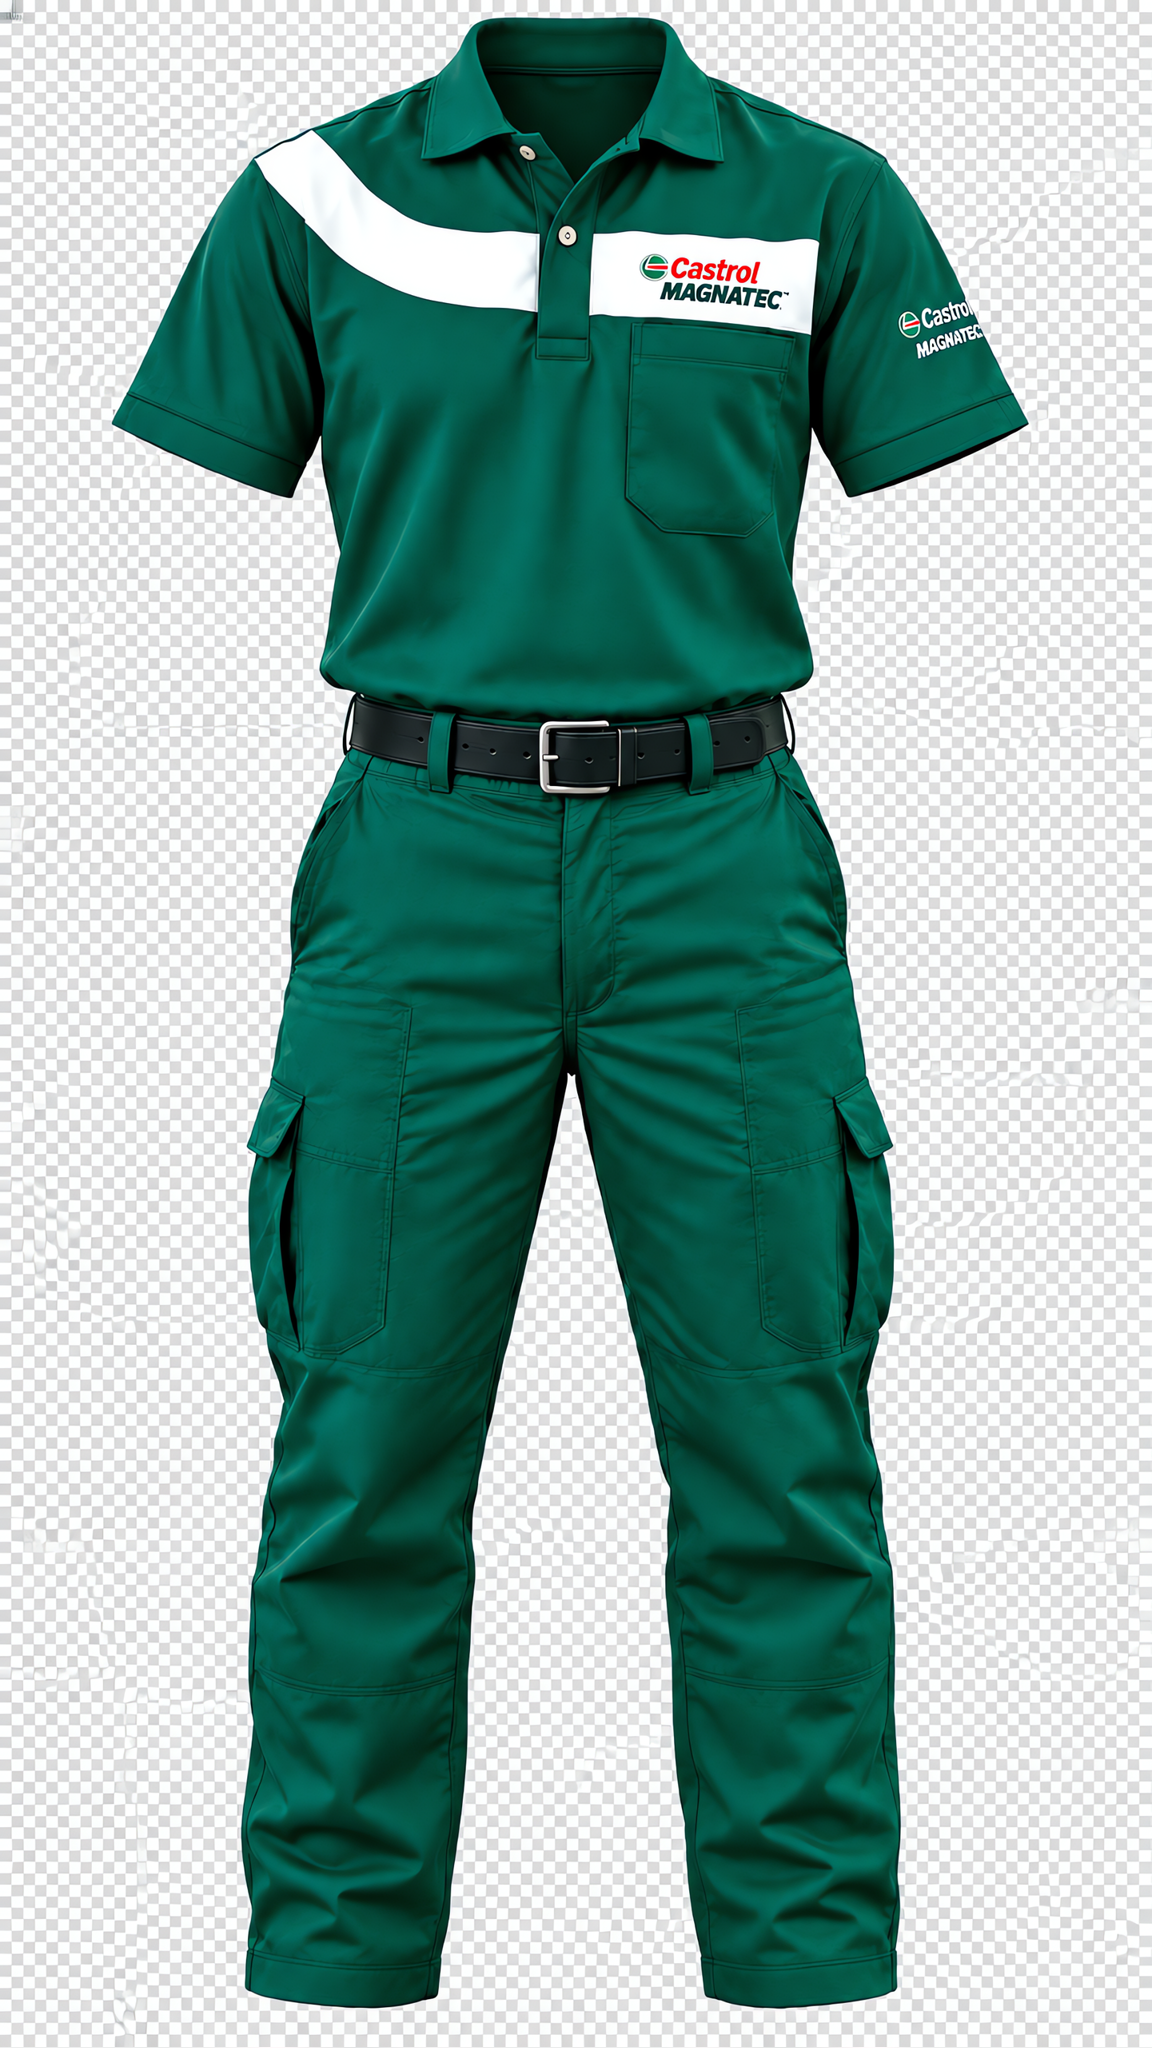
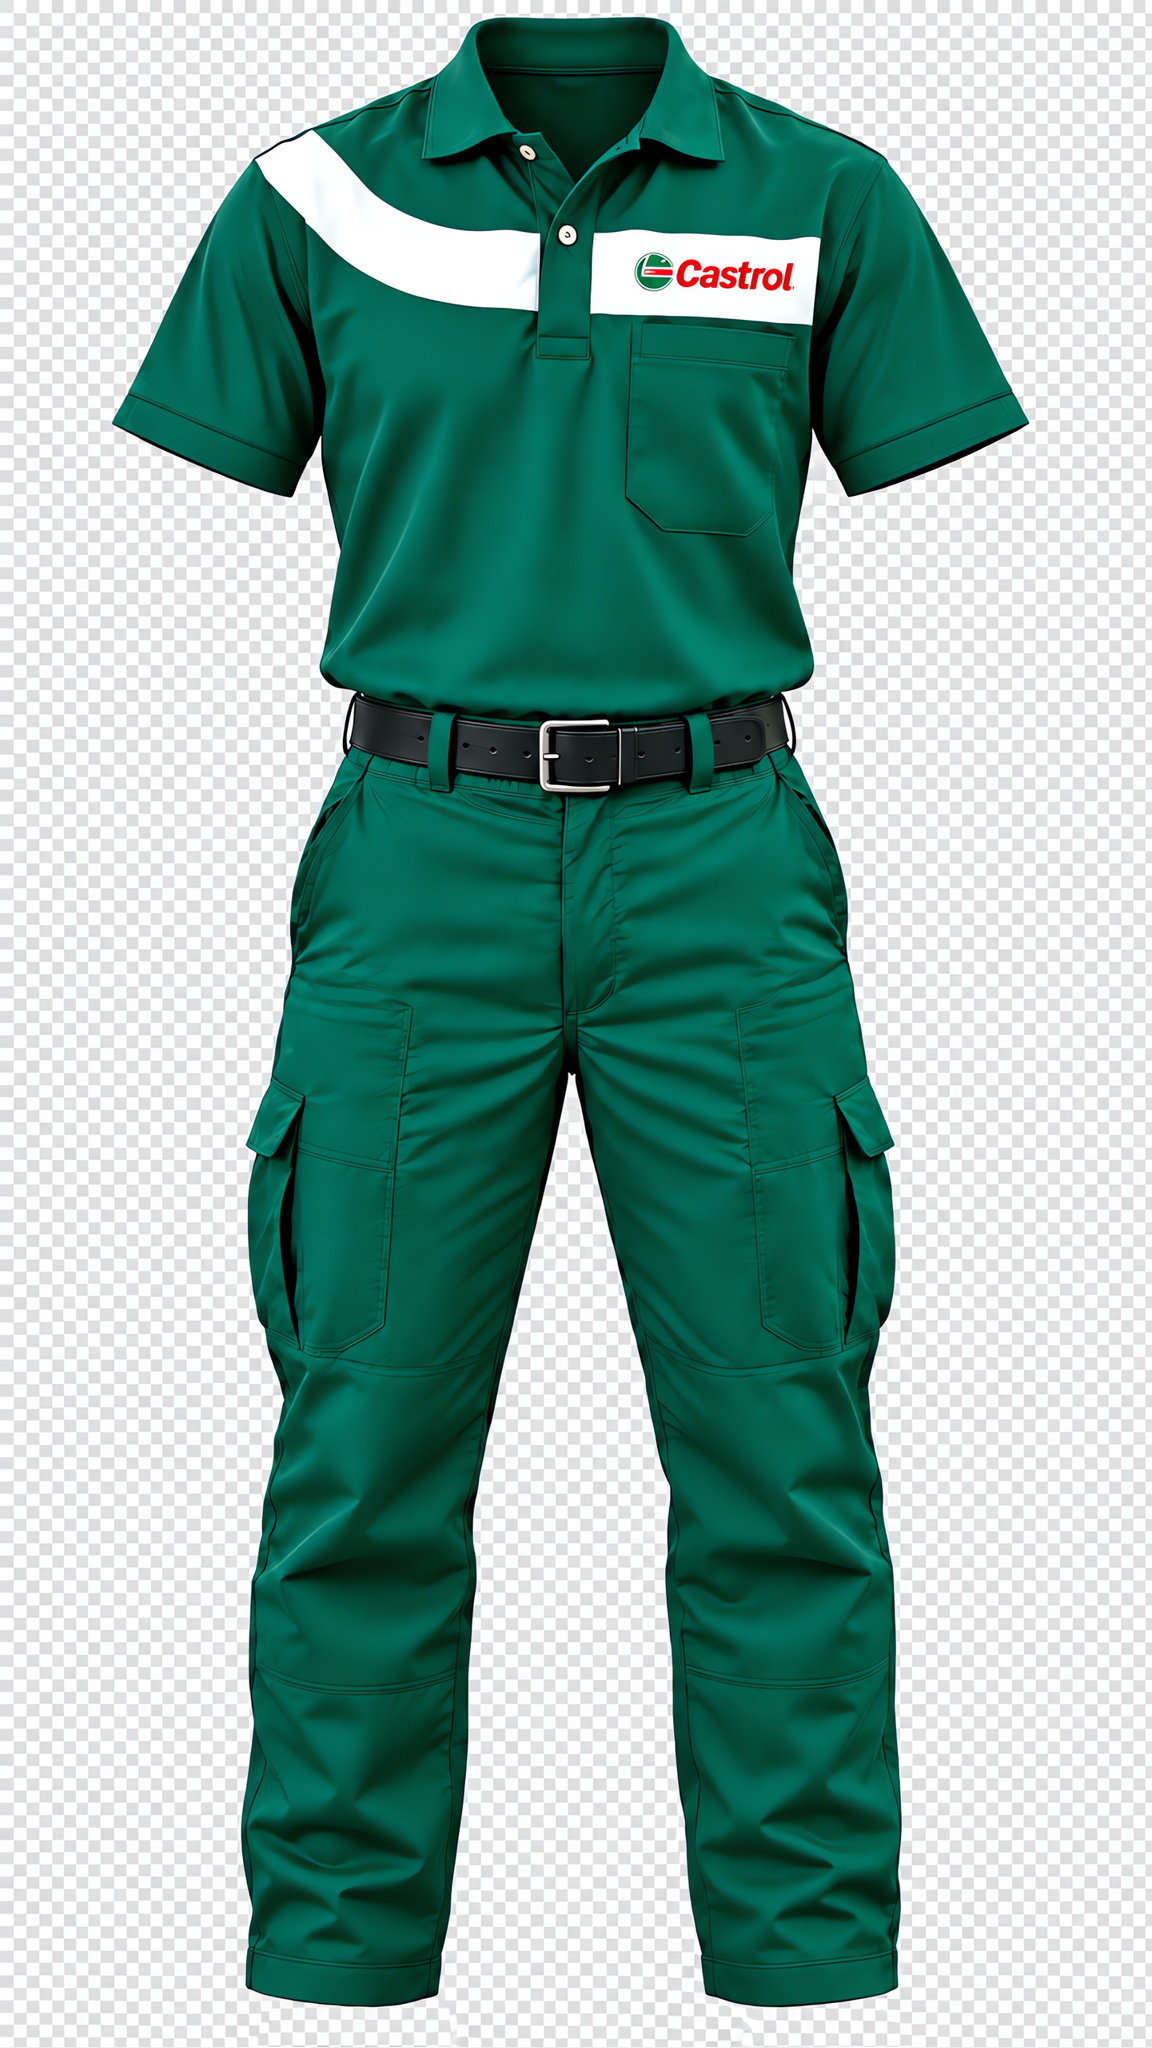
New plates and uniforms: chest reads "Castrol" only, plain sleeves
All six plates and both uniform references replaced with the revised
artwork. Every garment now carries a single chest mark reading "Castrol"
- no MAGNATEC on the uniform, no sleeve logo, no cap. Polo on plates
01-03 (u1_tshirt), button-front on 04-06 (u2_uniform); backgrounds are
consistent across both uniforms (01=04 SUV, 02=05 sedan, 03=06
hatchback). All six are 1152x2048, exactly 9:16 - the previous set was
1536x2752 and tripped seed.plate_not_1080x1920 on every registration.

The simplified mark is the fix for the chest logo smearing in stage C.
MAGNATEC was ~8px tall at 720x1280 and smeared in every render; two full
renders on the new artwork (Raju Shetty, Virender Singh) keep "Castrol"
legible through the moving video.

IMAGE_PROMPT's logo inventory updated to match, in vendors.py and in the
prototype's copy. It listed "every Castrol and MAGNATEC logo, on the cap,
the chest panel, the sleeve and the overhead banner" - and on a plate
with no sleeve logo the model INVENTED one to satisfy the list, beating
the "do not invent logos" clause. It now names what is actually there,
positively: the chest Castrol mark, the overhead banner, and plain
sleeves. Verified: the next render on the same plate kept the sleeves
plain, in the still and through the video.

NOT DONE, and both matter before real jobs use this:

- The database still points at the OLD artwork. plates rows carry the
  previous files' sha256 and S3 keys, and uniform_ref_key points at the
[…]

diff --git a/src/castrol_pipeline/stages/vendors.py b/src/castrol_pipeline/stages/vendors.py
@@ -101,8 +101,9 @@ _PROMPT_PRESERVE = """\
 Reproduce this image EXACTLY as-is. Same camera framing, same crop, same \
 subject scale, same head position, same shoulder line, same belt line, same \
 pose, same hand position, same background, same lighting, same uniform \
-geometry, and every Castrol and MAGNATEC logo, on the cap, the chest panel, \
-the sleeve and the overhead banner, identical in placement, size and colour.
+geometry, the Castrol mark on the chest panel and the Castrol MAGNATEC \
+overhead banner, identical in placement, size and colour. The chest panel's \
+Castrol mark is the uniform's only branding, and the sleeves are plain.
 
 Make EXACTLY ONE change: replace the person with the person in the second \
 reference image. It is that person standing there, not the first person \

diff --git a/spikes/prototype.py b/spikes/prototype.py
@@ -206,8 +206,9 @@ PRESERVE = """\
 Reproduce this image EXACTLY as-is. Same camera framing, same crop, same \
 subject scale, same head position, same shoulder line, same belt line, same \
 pose, same hand position, same background, same lighting, same uniform \
-geometry, and every Castrol and MAGNATEC logo, on the cap, the chest panel, \
-the sleeve and the overhead banner, identical in placement, size and colour.
+geometry, the Castrol mark on the chest panel and the Castrol MAGNATEC \
+overhead banner, identical in placement, size and colour. The chest panel's \
+Castrol mark is the uniform's only branding, and the sleeves are plain.
 
 Make EXACTLY ONE change: replace the person with the person in the second \
 reference image. It is that person standing there, not the first person \
